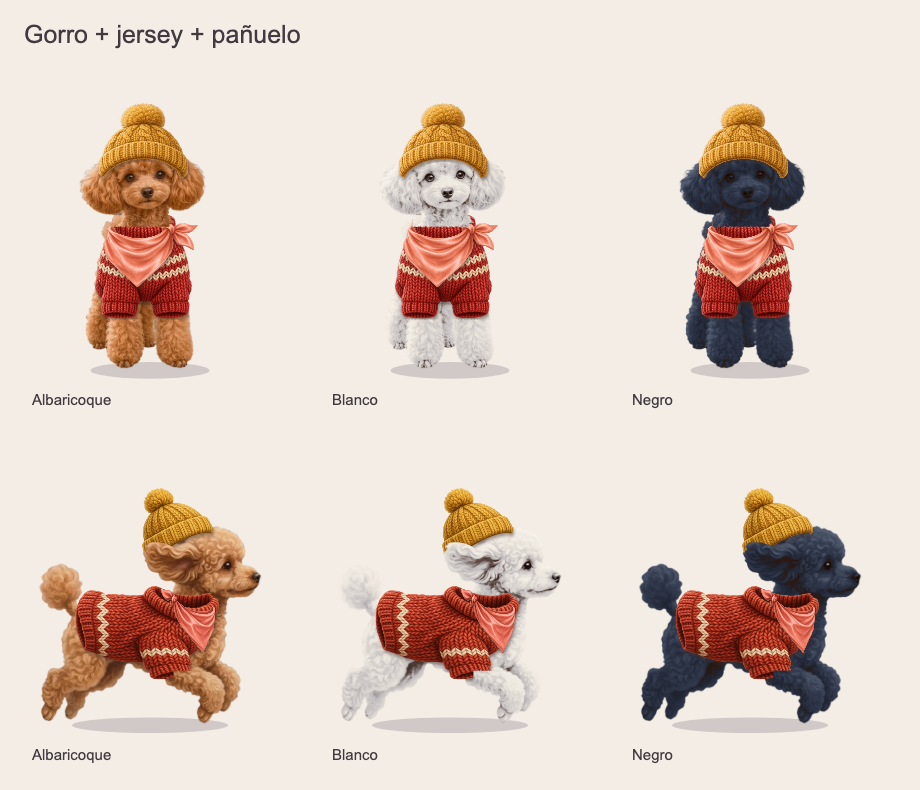
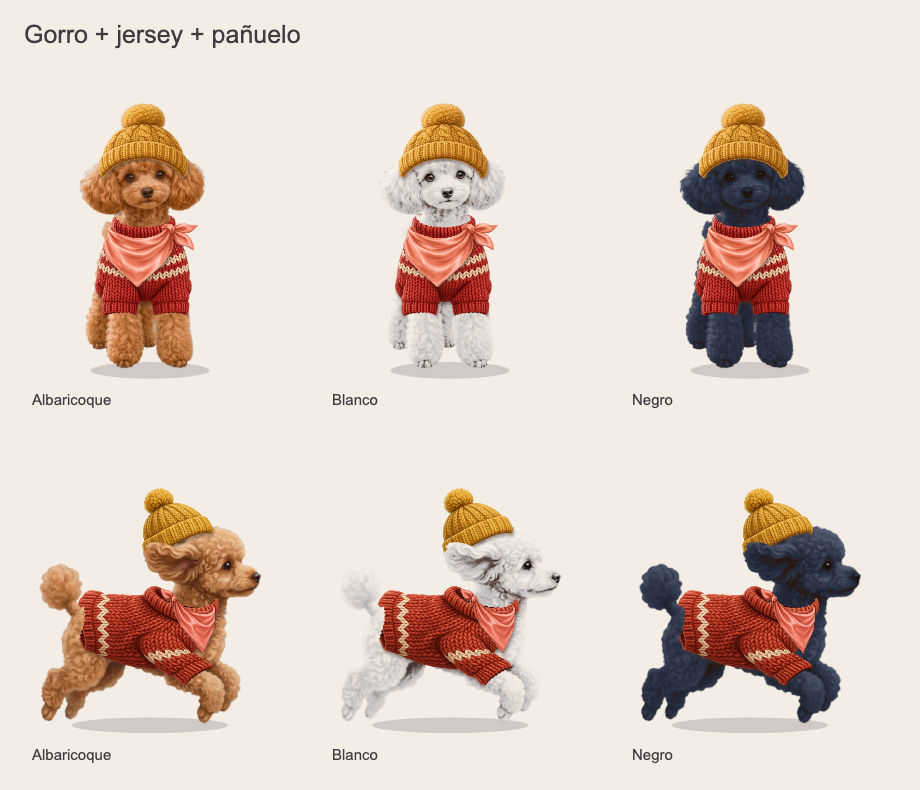
Ajusta las aberturas del jersey al cuello y las patas

diff --git a/lib/game/pet/integrated_accessories.dart b/lib/game/pet/integrated_accessories.dart
@@ -87,6 +87,33 @@ class IntegratedAccessories {
     }();
   }
 
+  // Las máscaras y el tejido se deforman con la misma función. Así el hueco
+  // del puño conserva su posición al cambiar de fotograma.
+  Offset _placed(Rect dst, String pose, double u, double v) {
+    final p = Offset(dst.left + u * dst.width, dst.top + v * dst.height);
+    final (cuff, angle) = switch (pose) {
+      'side' => (const Offset(0.222, -0.185), -0.10),
+      'run_a' => (const Offset(0.285, -0.152), -0.76),
+      'run_b' => (const Offset(0.221, -0.203), -0.55),
+      'jump' => (const Offset(0.285, -0.256), -0.77),
+      _ => (null, 0.0),
+    };
+    if (cuff == null) return p;
+
+    // Centro del puño en el PNG de perfil y dirección de la pata en el sprite.
+    final center = Offset(
+      dst.left + dst.width * 0.583,
+      dst.top + dst.height * 0.973,
+    );
+    final d = p - center;
+    final cs = math.cos(angle), sn = math.sin(angle);
+    final target = cuff + Offset(d.dx * cs - d.dy * sn, d.dx * sn + d.dy * cs);
+    final x = (1 - ((u - 0.583).abs() - 0.15) / 0.19).clamp(0.0, 1.0);
+    final y = ((v - 0.5) / 0.43).clamp(0.0, 1.0);
+    final weight = x * y * y * (3 - 2 * y);
+    return Offset.lerp(p, target, weight)!;
+  }
+
   void _draw(
     Canvas c,
     String name,
@@ -106,22 +133,7 @@ class IntegratedAccessories {
         final v = row / n;
         for (var col = 0; col <= n; col++) {
           final u = col / n;
-          var dx = dst.left + u * dst.width, dy = dst.top + v * dst.height;
-          // Solo el extremo de la manga cambia de dirección: la trama y
-          // las sombras del torso conservan continuidad en cada fotograma.
-          final sleeve =
-              ((u - 0.25) / 0.35).clamp(0.0, 1.0) *
-              ((v - 0.50) / 0.50).clamp(0.0, 1.0);
-          if (deformation == 'run_a') {
-            dx += sleeve * 0.17;
-            dy -= sleeve * 0.070;
-          }
-          if (deformation == 'run_b' || deformation == 'jump') {
-            dx += sleeve * 0.070;
-            dy -= sleeve * 0.055;
-          }
-          if (deformation == 'side') dx += sleeve * 0.055;
-          positions.add(Offset(dx, dy));
+          positions.add(_placed(dst, deformation, u, v));
           uv.add(
             Offset(
               cloth.source.left + u * cloth.source.width,
@@ -210,28 +222,6 @@ class IntegratedAccessories {
     c.restore();
   }
 
-  /// Borde con rizos de la propia imagen. Cada color conserva su pelaje:
-  /// no se añaden mechones albaricoque a un caniche blanco o negro.
-  Path _fringe(Offset a, Offset b, {double depth = 0.04, bool below = true}) {
-    final delta = b - a;
-    final normal = Offset(-delta.dy, delta.dx) / delta.distance;
-    final p = Path()..moveTo(a.dx, a.dy);
-    for (var i = 0; i < 20; i++) {
-      final x = a + delta * (i / 20), y = a + delta * ((i + 1) / 20);
-      final lift = normal * (0.003 + math.sin(i * 9.1) * 0.004);
-      p.quadraticBezierTo(
-        (x.dx + y.dx) / 2 + lift.dx,
-        (x.dy + y.dy) / 2 + lift.dy,
-        y.dx,
-        y.dy,
-      );
-    }
-    final n = normal * (below ? depth : -depth);
-    p.lineTo(b.dx + n.dx, b.dy + n.dy);
-    p.lineTo(a.dx + n.dx, a.dy + n.dy);
-    return p..close();
-  }
-
   Path _ear(String pose, Offset head) {
     final offset = switch (pose) {
       'run_a' => const Offset(-0.11, 0.11),
@@ -284,64 +274,96 @@ class IntegratedAccessories {
         : null;
     _shadow(c, name, rect, pose, base, petRect);
     _draw(c, name, rect, deformation: pose, colorFilter: filter);
-    if (front) {
-      _fur(
-        c,
-        _fringe(
-          Offset(center - 0.13, -0.606),
-          Offset(center + 0.13, -0.606),
-          depth: 0.095,
-          below: false,
-        ),
-        base,
-        petRect,
-        coatPaint,
-      );
-      for (final side in [-1.0, 1.0]) {
-        final x = center + side * 0.104;
-        _fur(
-          c,
-          _fringe(Offset(x - 0.06, -0.203), Offset(x + 0.06, -0.203)),
-          base,
-          petRect,
-          coatPaint,
-        );
-      }
-    } else {
-      final head = lm['headTop']!;
-      // La oreja y la garganta se sitúan delante del cuello del jersey.
-      _fur(c, _ear(pose, head), base, petRect, coatPaint);
-      final cuff = switch (pose) {
-        'run_a' => (const Offset(0.20, -0.205), const Offset(0.30, -0.16)),
-        'run_b' ||
-        'jump' => (const Offset(0.105, -0.235), const Offset(0.205, -0.235)),
-        _ => (
-          Offset(neck.dx - 0.12, neck.dy + 0.37),
-          Offset(neck.dx + 0.01, neck.dy + 0.37),
-        ),
-      };
-      _fur(
-        c,
-        _fringe(cuff.$1, cuff.$2, depth: 0.045),
-        base,
-        petRect,
-        coatPaint,
-      );
-      final chin = lm['mouth']!;
-      _fur(
-        c,
-        Path()..addOval(
-          Rect.fromCenter(
-            center: chin + const Offset(-0.06, 0.025),
-            width: 0.18,
-            height: 0.075,
-          ),
-        ),
-        base,
-        petRect,
-        coatPaint,
-      );
+    _openSweater(c, rect, pose, base, petRect, coatPaint);
+    if (!front) {
+      _fur(c, _ear(pose, lm['headTop']!), base, petRect, coatPaint);
     }
+  }
+
+  final Map<(Rect, String), Path> _openingCache = {};
+
+  void _openSweater(
+    Canvas c,
+    Rect rect,
+    String pose,
+    SpriteLayer base,
+    Rect petRect,
+    Paint coatPaint,
+  ) {
+    final openings = _openingCache.putIfAbsent((rect, pose), () {
+      final uv = Path();
+      if (pose == 'front') {
+        // La nuca oculta la pared trasera. Queda la curva de punto delantera.
+        uv.moveTo(0.217, -0.04);
+        uv.cubicTo(0.195, 0.052, 0.264, 0.105, 0.370, 0.118);
+        uv.cubicTo(0.505, 0.145, 0.695, 0.124, 0.77, 0.072);
+        uv.quadraticBezierTo(0.805, 0.035, 0.796, -0.04);
+        uv.close();
+        // El pelo entra en ambos puños hasta el borde enrollado.
+        for (final (left, right) in [(0.080, 0.441), (0.589, 0.960)]) {
+          final w = right - left;
+          uv.moveTo(left, 1.04);
+          uv.cubicTo(
+            left - 0.012,
+            0.970,
+            left + w * 0.12,
+            0.945,
+            left + w * 0.45,
+            0.940,
+          );
+          uv.cubicTo(
+            right - w * 0.12,
+            0.930,
+            right + 0.014,
+            0.961,
+            right,
+            1.04,
+          );
+          uv.close();
+        }
+      } else {
+        // Cuello, boca de la manga y bajo. La tela exterior sigue visible
+        // alrededor de cada unión en vez de cubrir la pata completa.
+        uv.moveTo(0.557, -0.04);
+        uv.cubicTo(0.526, 0.061, 0.60, 0.117, 0.717, 0.169);
+        uv.cubicTo(0.810, 0.215, 0.919, 0.229, 0.966, 0.146);
+        uv.lineTo(1.03, -0.04);
+        uv.close();
+        uv.moveTo(0.458, 1.04);
+        uv.cubicTo(0.438, 0.985, 0.481, 0.943, 0.552, 0.938);
+        uv.cubicTo(0.671, 0.925, 0.732, 0.946, 0.731, 1.04);
+        uv.close();
+        uv.moveTo(-0.04, 0.066);
+        uv.cubicTo(0.071, 0.104, 0.082, 0.256, 0.061, 0.37);
+        uv.quadraticBezierTo(0.028, 0.57, -0.03, 0.65);
+        uv.close();
+      }
+      return _mapPath(uv, rect, pose);
+    });
+    _fur(c, openings, base, petRect, coatPaint);
+  }
+
+  Path _mapPath(Path uv, Rect rect, String pose) {
+    final mapped = Path();
+    for (final contour in uv.computeMetrics(forceClosed: true)) {
+      // Muescas muy pequeñas rompen el borde de corte del pelaje. La malla
+      // comparte la transformación en cada muestra de este contorno.
+      for (var i = 0; i < 80; i++) {
+        final tangent = contour.getTangentForOffset(contour.length * i / 80)!;
+        final p =
+            tangent.position +
+            Offset(-tangent.vector.dy, tangent.vector.dx) *
+                (0.003 + math.sin(i * 2.6) * 0.006);
+        final pos = _placed(rect, pose, p.dx, p.dy);
+        if (i == 0) {
+          mapped.moveTo(pos.dx, pos.dy);
+        } else {
+          mapped.lineTo(pos.dx, pos.dy);
+        }
+      }
+      mapped.close();
+    }
+    return mapped;
   }
 
   void paintBandana(
@@ -369,22 +391,8 @@ class IntegratedAccessories {
     if (pose == 'back') return; // El triángulo queda al otro lado del cuello.
     _shadow(c, name, rect, '', base, petRect);
     _draw(c, name, rect);
-    if (front) {
-      _fur(
-        c,
-        _fringe(
-          Offset(center - 0.13, -0.590),
-          Offset(center + 0.11, -0.590),
-          depth: 0.08,
-          below: false,
-        ),
-        base,
-        petRect,
-        coatPaint,
-      );
-    } else {
-      final head = lm['headTop']!;
-      _fur(c, _ear(pose, head), base, petRect, coatPaint);
+    if (!front) {
+      _fur(c, _ear(pose, lm['headTop']!), base, petRect, coatPaint);
     }
   }
 

diff --git a/test/game/integrated_accessories_review_test.dart b/test/game/integrated_accessories_review_test.dart
@@ -303,4 +303,65 @@ void main() {
       }
     });
   });
+
+  testWidgets('el pelaje cruza el cuello, los puños y el bajo del jersey', (
+    t,
+  ) async {
+    final balance = loadBalance();
+    final catalog = AppearanceCatalog.fromJson(
+      jsonDecode(File('assets/data/appearance-v1.json').readAsStringSync()),
+    );
+    final painter = PetPainter(catalog)
+      ..sprites = await t.runAsync(() => PetSprites.load(rootBundle));
+    await t.runAsync(() async {
+      final base = balance.initialAppearance.withSlot(Slot.coat, 'coat.white');
+      final dressed = base.withSlot(Slot.outfit, 'outfit.sweater_red');
+      final openings = [
+        (
+          views[0],
+          const [
+            ui.Offset(-0.021, -0.601),
+            ui.Offset(-0.105, -0.218),
+            ui.Offset(0.097, -0.214),
+          ],
+        ),
+        (
+          views[1],
+          const [
+            ui.Offset(0.242, -0.596),
+            ui.Offset(0.224, -0.193),
+            ui.Offset(-0.193, -0.520),
+          ],
+        ),
+        (views[2], const [ui.Offset(0.220, -0.556)]),
+      ];
+      for (final (view, points) in openings) {
+        final (pose, animation, time, caption) = view;
+        final fur = await dog(painter, base, pose, animation, time);
+        final jersey = await dog(painter, dressed, pose, animation, time);
+        final bareSample = (await fur.toByteData())!.buffer.asUint8List();
+        final dressedSample = (await jersey.toByteData())!.buffer.asUint8List();
+        final size = pose == PetPose.front ? 238 : 223;
+        for (final point in points) {
+          final x = (140 + point.dx * size).round();
+          final y = (298 + point.dy * size).round();
+          final i = (y * 280 + x) * 4;
+          expect(
+            bareSample[i + 3],
+            greaterThan(225),
+            reason: '$caption $point',
+          );
+          for (var channel = 0; channel < 3; channel++) {
+            expect(
+              (bareSample[i + channel] - dressedSample[i + channel]).abs(),
+              lessThanOrEqualTo(12),
+              reason: '$caption $point',
+            );
+          }
+        }
+        jersey.dispose();
+        fur.dispose();
+      }
+    });
+  });
 }

diff --git a/docs/ESTADO.md b/docs/ESTADO.md
@@ -8,6 +8,8 @@ Registro vivo. Distingue **implementado**, **probado en este Mac** (pruebas auto
 
 Alcance autorizado e implementado: gorro de lana, familia jersey y pañuelo coral. Seis recursos ilustrados locales, ajuste por pose mediante malla, oclusión del pelaje original y sombras recortadas al cuerpo. El resto del catálogo conserva su representación anterior. Capturas de frente, perfil y carrera sobre albaricoque, blanco y negro en [la revisión del piloto](reviews/integrated-pilot/README.md). Se descartó una primera prueba de texturas planas: no resolvía el volumen del jersey. Análisis limpio y 36 pruebas relevantes correctas, incluyendo facciones y regresión de artículos ajenos al piloto. Revisado visualmente en este Mac; valoración del propietario y dispositivo pendientes. Sin build de distribución; cambios sin commit del clon original respetados.
 
+Segunda revisión del piloto: cuello, puños y bajo del jersey dejan pasar el pelaje del perro mediante contornos curvos. De perfil y en carrera, la manga gira con la pata y su abertura comparte la deformación de la tela. Se regeneraron las capturas del jersey, el pañuelo y el conjunto. La suite completa pasó con 147 pruebas y el análisis estático quedó limpio.
+
 ## Sesión 2026-11-17 · Cuidados interactivos y revisión visual
 
 Trabajo aislado en `feat/interactive-care`, partiendo de `fb4a500`, para respetar los cambios sin commit del clon original. Se configura el ID común `com.betitoglez.mypoodle` en Android/iOS. **Build de distribución pendiente de actualización de main y rebase por indicación del propietario.** No se ha probado esta revisión en dispositivo.

diff --git a/docs/reviews/integrated-pilot/README.md b/docs/reviews/integrated-pilot/README.md
@@ -22,9 +22,12 @@ Son renders del pintor real del juego, que se utiliza también en Casa, Armario 
 
 Código: `lib/game/pet/integrated_accessories.dart`, composición en `pet_painter.dart` y exclusión de las tres representaciones anteriores en `pet_accessories.dart`.
 
+En la segunda revisión, los contornos del cuello, los puños y el bajo dejan ver el pelaje que sale por cada abertura. La abertura de la manga comparte la deformación y la orientación de la tela en cada fotograma. El pañuelo conserva la curva de su borde frontal. Las láminas del jersey, el pañuelo y el conjunto muestran este ajuste.
+
 ## Validación
 
-- `flutter analyze --no-pub`: sin incidencias.
+- `flutter analyze --no-pub` sin incidencias.
+- `flutter test --no-pub` con **147 pruebas correctas** tras el ajuste de los contornos. Incluye comprobar que el pelaje del caniche blanco se ve en el cuello y ambos puños de frente, y en el cuello, el puño y el bajo de perfil.
 - `flutter test --no-pub test/game/pet_sprites_test.dart test/game/integrated_accessories_review_test.dart test/ui/features_test.dart test/ui/app_flow_test.dart`: **36 pruebas correctas**.
 - El piloto produce las 45 combinaciones individuales (3 prendas × 3 pelajes × 5 vistas/fotogramas), la comparativa y seis combinaciones de las tres prendas juntas.
 - Comprobación visual local de las cinco láminas. La prueba de facciones comprueba ojos y hocico con margen de dos niveles de canal para redondeo del raster/alfa.
